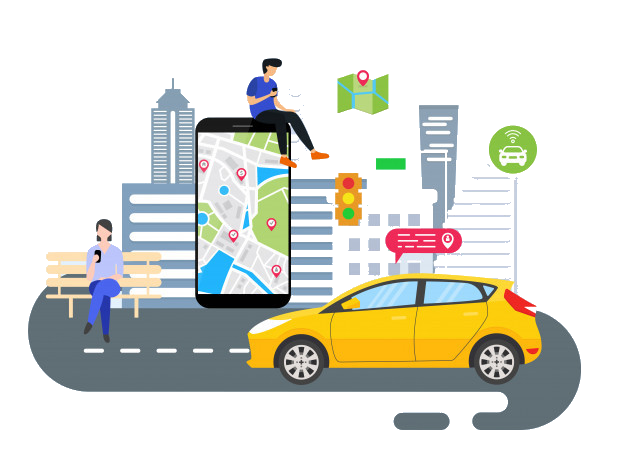
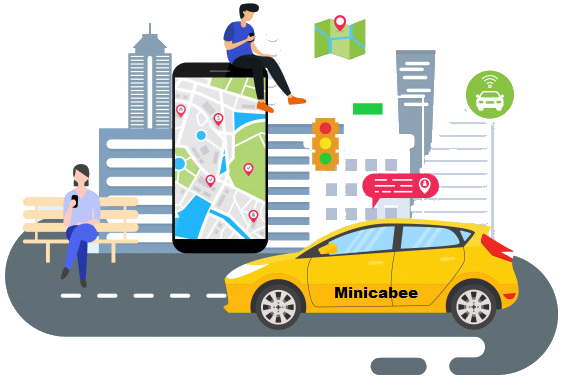
ss
sss

diff --git a/promotions/booking.html b/promotions/booking.html
@@ -103,7 +103,7 @@ a, a:hover {
 		<td align="center" valign="top" style="border-collapse: collapse; border-spacing: 0; margin: 0; padding: 0;
 			padding-top: 20px;" class="hero"><a target="_blank" style="text-decoration: none;"
 			href=""><img border="0" vspace="0" hspace="0"
-			src="../assets/images/onlinebook.jpg"
+			src="https://startersup.github.io/minicabee/assets/images/booktaxi.png"
 			alt="Please enable images to view this content" title="Minicabee Banner"
 			width="560" style="
 			width: 100%;
